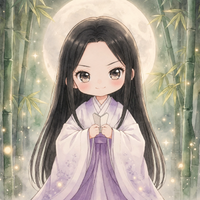
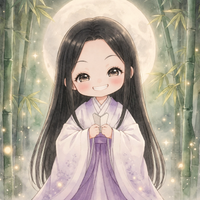
feat(teachers): かぐや姫は不正解のとき少し得意そうに（顔と台詞6文）
- ゆるりの不正解の顔を「まだ解かれず少し得意そう」に（見下す顔にはしない）
- 不正解の台詞30文のうち6文を「ふふ、まだ解かれませんね」などに。励ましの文は残す

Claude-Session: https://claude.ai/code/session_012EfjBHepivUPHFZpKQTgpS

diff --git a/src/lib/teacherLines.ts b/src/lib/teacherLines.ts
@@ -1351,7 +1351,7 @@ export const TEACHER_LINES: Record<TeacherId, TeacherLines> = {
     exampleLead: ['歌や文ではこうさ。', '使いどころだ。', '文で見てみな。', '生きた姿はこうだ。'],
     trapLead: ['ここ、迷いやすいぞ。', '落とし穴だ。', '化かされるなよ。'],
   },
-  // かぐや姫（『竹取物語』の作中の人物。2026-11-17 追加）— 誇り高くクールな姫君（難題の出題者）。正解されるとやや悔しそうに認める（2026-11-18 ユーザー指示）。簡単にはなびかないが、情は深い。一人称 わたくし／あなた、語尾 〜ですよ・〜なさいな・〜ですこと・〜でしょう？・「ふふ」。
+  // かぐや姫（『竹取物語』の作中の人物。2026-11-17 追加）— 誇り高くクールな姫君（難題の出題者）。正解されるとやや悔しそうに認め、不正解では少し得意そう（2026-11-18 ユーザー指示）。簡単にはなびかないが、情は深い。一人称 わたくし／あなた、語尾 〜ですよ・〜なさいな・〜ですこと・〜でしょう？・「ふふ」。
   // ギャップ：おじいさま・おばあさま（翁と嫗）の話になると涼しい顔が崩れて情がこぼれる。月の話になると少ししんみりする（10回に1〜2回）。正本 = F:\A2A\_work\kobun-chat-feedback\guest\kaguya.json（AI 作成・教員未確認）
   kaguya: {
     correct: [
@@ -1387,15 +1387,15 @@ export const TEACHER_LINES: Record<TeacherId, TeacherLines> = {
       '次の難題を、すぐに用意します。',
     ],
     wrong: [
-      '答えは「{正解}」。難題は、これからですよ。',
+      '「{正解}」です。ふふ、まだ解かれませんね。',
       'いいえ、「{正解}」です。もう一度お考えなさいな。',
-      '惜しいこと。正しくは「{正解}」です。',
+      '惜しいこと。正しくは「{正解}」ですよ、ふふ。',
       '「{正解}」が答え。難しい問いほど解きがいがあるもの。',
       'お待ちなさい。ここは「{正解}」ですよ。',
       '「{正解}」です。簡単にはなびかない問いですよ。',
       'まだ、お見せいただけていません。「{正解}」です。',
       '「{正解}」。責めはしません。覚えればよいのです。',
-      '正しくは「{正解}」。月が出たら、思い出して。',
+      '正しくは「{正解}」。…少しだけ、得意な気分です。',
       '「{正解}」ですよ。焦らず、ゆっくりで構いません。',
       'ほんの少しのことです。「{正解}」と覚えなさいな。',
       '「{正解}」。…おじいさまも、よく間違えましたよ。',
@@ -1405,12 +1405,12 @@ export const TEACHER_LINES: Record<TeacherId, TeacherLines> = {
       '「{正解}」。道理が分かれば、二度は迷いません。',
       '答えは「{正解}」。次こそ、わたくしを驚かせて。',
       '「{正解}」です。問いは逃げません。もう一度。',
-      '残念。「{正解}」が本物の答えです。',
+      '「{正解}」。わたくしの難題、なかなかでしょう？',
       '「{正解}」ですよ。…そんなに落ち込まないで。',
       '正しいのは「{正解}」。書き置いておきますね。',
-      '「{正解}」。地上の言葉は、わたくしにも難しいもの。',
+      'ふふ、この難題はまだわたくしの勝ち。「{正解}」です。',
       '違います。「{正解}」です。読みの筋は悪くないのに。',
-      '「{正解}」。…泣かないで。わたくしまで悲しくなります。',
+      '「{正解}」。この難題、そう簡単には渡しません。',
       '簡単には教えませんが、今回は。「{正解}」です。',
       '「{正解}」。この難題、もう一度出しますからね。',
       '「{正解}」。羽衣を着ても、忘れないように。',

diff --git a/src/lib/teachers.ts b/src/lib/teachers.ts
@@ -193,7 +193,7 @@ export const ANIME_TEACHER_IDS: readonly TeacherId[] = ['sei', 'murasaki', 'mich
 // 表情差分（2026-11-18、ユーザー指示「先生の顔のバリエーションをつけたい」。調査 = F:\A2A\_work\work-teachers\expression-research.md）。
 // base＝今の1枚／joy＝うれしい（正解）／cheer＝はげまし（不正解。がっかり・かわいそう・怒りの顔にしない＝教育研究による）。
 // 段階1はゆるり×2表情×全員（Canva で今の絵を参照画像にして顔だけ変えた。原本 assets-src/teachers/expr/）。
-// かぐや姫の joy は「解かれてやや悔しそう」（ユーザー指示）。ファイルは <id>-<tone>-<expr>.webp。無い組み合わせは base で出す。
+// かぐや姫の joy は「解かれてやや悔しそう」、cheer は「まだ解かれず少し得意そう」（ユーザー指示）。ファイルは <id>-<tone>-<expr>.webp。無い組み合わせは base で出す。
 export type TeacherExpression = 'base' | 'joy' | 'cheer';
 
 /** 表情差分の絵がある画風（先生ごと）。足したらここに書く */
